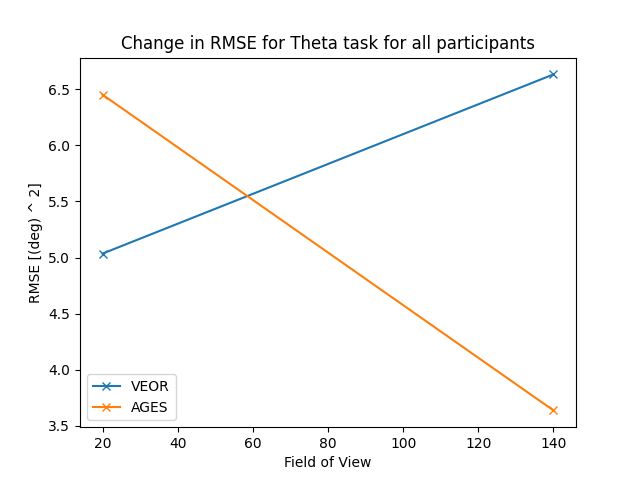
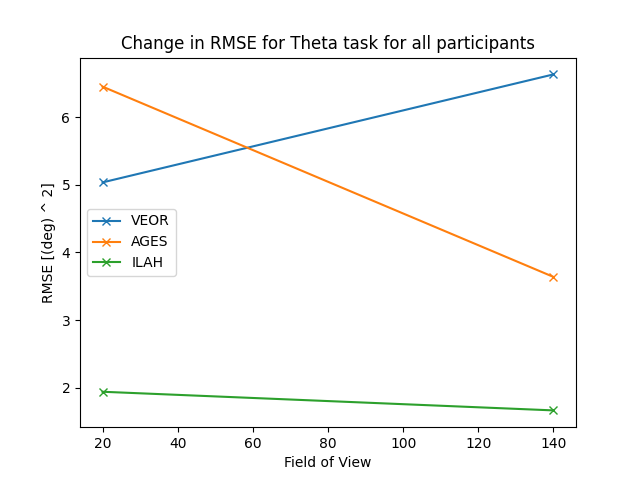
mo data mo problems

diff --git a/errorAnalysisSpeed.py b/errorAnalysisSpeed.py
@@ -4,7 +4,7 @@ import matplotlib.pyplot as plt
 import numpy as np
 import pandas as pd
 folder = "Heli_Sim/Assets/StreamingAssets/Data/"
-filename = folder + "export_ilah187,7435_actual_140.csv"
+filename = folder + "export_ilah183,2609365,5063_actual_20.csv"
 file = open(filename)
 Time=[]
 controlVelocity = []

diff --git a/errorAnalysisTheta.py b/errorAnalysisTheta.py
@@ -5,7 +5,7 @@ import matplotlib.pyplot as plt
 import numpy as np
 import pandas as pd
 folder = "Heli_Sim/Assets/StreamingAssets/Data/"
-filename = folder + "export_test151,9673_theta_140.csv"
+filename = folder + "export_ilah164,7868348,0619_theta_140.csv"
 file = open(filename)
 Time=[]
 controlTheta = []

diff --git a/bulkAnalysis.py b/bulkAnalysis.py
@@ -117,7 +117,7 @@ thetaRange = np.array([20,140])
 lowFOV = np.array([20,30,60,90])
 highFOV = np.array([90,120,140])
 writeFolder = "Visuals/Results/"
-pNumbers = ["VEOR","AGES"]
+pNumbers = ["VEOR","AGES","ILAH"]
 fullAverageU=[]
 fullAverageTheta=[]
 lowFOVAverageU=[]
